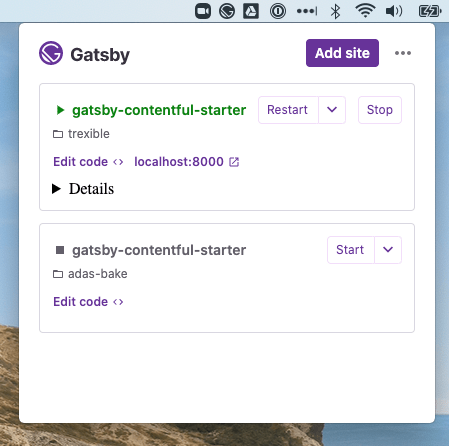
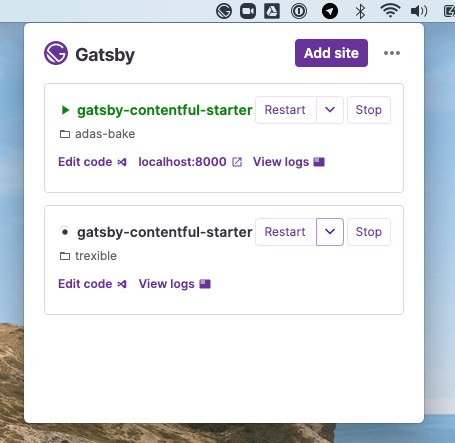
wip

diff --git a/app/site-watcher.ts b/app/site-watcher.ts
@@ -1,0 +1,77 @@
+/**
+ * Watches the Gatsby metadata files to find available sites
+ */
+import tmp from "tmp"
+import path from "path"
+import xdgBasedir from "xdg-basedir"
+import fs from "fs-extra"
+import chokidar from "chokidar"
+import { debounce } from "./utils"
+
+// TODO: move these to gatsby-core-utils
+
+export interface ISiteMetadata {
+  sitePath: string
+  name?: string
+  pid?: number
+  lastRun?: number
+}
+
+export interface IServiceInfo {
+  port?: number
+  pid?: number
+}
+
+const configDir = path.join(
+  xdgBasedir.config || tmp.fileSync().name,
+  `gatsby`,
+  `sites`
+)
+
+async function getSiteInfo(file: string): Promise<ISiteMetadata> {
+  return fs.readJSON(path.join(configDir, file))
+}
+
+export function sortSites(
+  sites: Map<string, ISiteMetadata>
+): Array<ISiteMetadata> {
+  return Array.from(sites.values()).sort(
+    (siteA, siteB) => (siteB.lastRun || 0) - (siteA.lastRun || 0)
+  )
+}
+
+let watcher: chokidar.FSWatcher
+
+export async function watchSites(
+  updateHandler: (siteList: Array<ISiteMetadata>) => void
+): Promise<void> {
+  const sites = new Map<string, ISiteMetadata>()
+  const update = debounce(updateHandler, 500)
+  // Just in case
+  await stopWatching()
+  watcher = chokidar.watch(`*/metadata.json`, { cwd: configDir })
+
+  watcher.on(`add`, async (path) => {
+    const json = await getSiteInfo(path)
+    console.log(`added`, json)
+    sites.set(path, json)
+    update(sortSites(sites))
+  })
+  watcher.on(`change`, async (path) => {
+    const json = await getSiteInfo(path)
+    console.log(`changed`, json)
+    sites.set(path, json)
+    update(sortSites(sites))
+  })
+
+  watcher.on(`delete`, async (path) => {
+    const json = await getSiteInfo(path)
+    console.log(`deleted`, json)
+    sites.delete(path)
+    update(sortSites(sites))
+  })
+}
+
+export function stopWatching(): Promise<void> {
+  return watcher?.close()
+}

diff --git a/src/controllers/site.ts b/src/controllers/site.ts
@@ -15,6 +15,19 @@ import { ipcRenderer } from "electron"
 
 const workerUrl = `/launcher.js`
 
+// TODO: move these to gatsby-core-utils
+
+export interface ISiteMetadata {
+  sitePath: string
+  name?: string
+  lastRun?: number
+}
+
+export interface IServiceInfo {
+  port?: number
+  pid?: number
+}
+
 export interface ISiteInfo {
   path: string
   packageJson: PackageJson
@@ -68,6 +81,7 @@ export class GatsbySite {
   root: string
   packageJson: PackageJson
   siteStatus: ISiteStatus = DEFAULT_STATUS
+  startedInApp?: boolean
 
   private _listeners = new Set<(status: ISiteStatus, action?: Action) => void>()
 
@@ -86,6 +100,7 @@ export class GatsbySite {
    */
 
   public start(): void {
+    this.startedInApp = true
     this.updateStatus({
       running: true,
       logs: [],
@@ -127,7 +142,7 @@ export class GatsbySite {
   }
 
   public async loadFromServiceConfig(): Promise<void> {
-    const service = await getService(this.root, `developproxy`)
+    const service = await getService<IServiceInfo>(this.root, `developproxy`)
     console.log({ service })
     if (service) {
       const newStatus: Partial<ISiteStatus> = {
@@ -148,7 +163,7 @@ export class GatsbySite {
   }
 
   public async saveMetadataToServiceConfig(): Promise<void> {
-    const metadata = getService(this.root, `metadata`, true)
+    const metadata = getService<ISiteMetadata>(this.root, `metadata`, true)
     return createServiceLock(this.root, `metadata`, {
       name: this.packageJson.name,
       sitePath: this.root,

diff --git a/app/utils.ts b/app/utils.ts
@@ -21,3 +21,15 @@ export function hasGatsbyDependency(packageJson: PackageJson): boolean {
   const { dependencies, devDependencies } = packageJson
   return !!(dependencies?.gatsby || devDependencies?.gatsby)
 }
+
+export const debounce = <F extends unknown[]>(
+  func: (...args: F) => void,
+  waitFor: number
+): ((...args: F) => void) => {
+  let timeout: NodeJS.Timeout
+  const debounced = (...args: F): void => {
+    clearTimeout(timeout)
+    timeout = setTimeout(() => func(...args), waitFor)
+  }
+  return debounced
+}

diff --git a/app/main.ts b/app/main.ts
@@ -9,6 +9,7 @@ import {
   loadPackageJson,
   hasGatsbyDependency,
 } from "./utils"
+import { watchSites } from "./site-watcher"
 
 const dir = path.resolve(__dirname, `..`)
 
@@ -45,6 +46,12 @@ async function start(): Promise<void> {
 
   ipcMain.on(`remove-child-pid`, (event, payload: number) => {
     childPids.delete(payload)
+  })
+
+  ipcMain.on(`watch-sites`, (event) => {
+    watchSites((sites) => {
+      event.sender.send(`sites-updated`, sites)
+    })
   })
 
   app.on(`before-quit`, () => {

diff --git a/src/components/site-runners.tsx b/src/components/site-runners.tsx
@@ -7,6 +7,7 @@ import React, {
   useEffect,
 } from "react"
 import { GatsbySite, ISiteInfo, ISiteStatus } from "../controllers/site"
+import { ipcRenderer } from "electron"
 
 /**
  * This module uses shared context to store the list of user sites.
@@ -44,6 +45,8 @@ export function RunnerProvider({
     },
     [sites]
   )
+
+  ipcRenderer
 
   return (
     <RunnerContext.Provider value={{ sites, addSite, removeSite }}>

diff --git a/README.md b/README.md
@@ -12,7 +12,7 @@ This is alpha software, is under active development, and is likely to be broken.
 
 ### To install built packages:
 
-1. Click on releases and choose the installer for your platform. Mac users will need to right-click (or ctrl-click) on the app when you first launch it, until we have code signing set up.
+1. Click on [releases](https://github.com/gatsbyjs/desktop/releases) and choose the installer for your platform. Mac users will need to right-click (or ctrl-click) on the app when you first launch it, until we have code signing set up. Windows users will need to agree to lots of Defender warnings.
 
 ### To install from source:
 
@@ -24,7 +24,7 @@ This is alpha software, is under active development, and is likely to be broken.
 
 Gatsby Desktop is an Electron app, which is currently just displayed in the menubar or tray. All Electron apps have two primary processes:
 
-1. "main", which is a Node.js script which handles windowing, menus and similar native bits. Think of it as the server. It opens BrowserWindows which contain:
+1. "main", which is a Node.js script which handles windowing, menus and similar native bits. Think of it as the server. It opens `BrowserWindow`s which contain:
 2. "renderer": this is the UI of the app, which is HTML + JS. In Gatsby Desktop, this is of course a local Gatsby site. Unlike a regular web app, Electron renderers can import and use built-in Node.js modules, such as `fs` and `child_process`.
 
 Gatsby Desktop can launch and run your local Gatsby sites. To do this we use another process:
